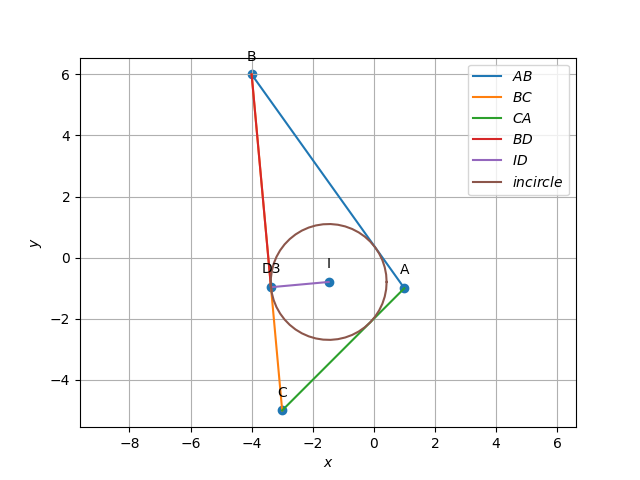
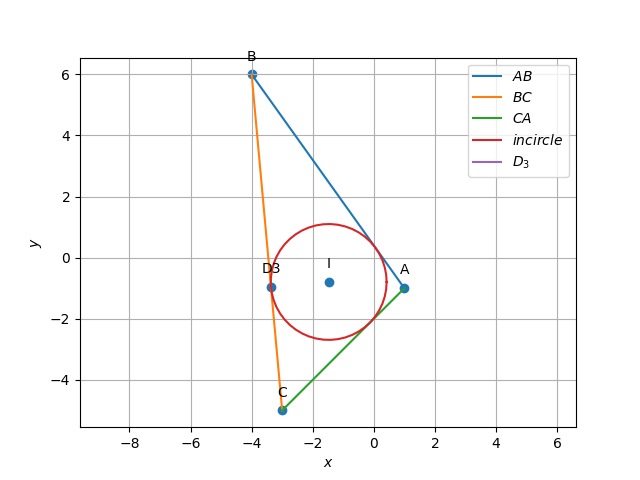
changed the image and multline, made changes to align

diff --git a/assgn1_1.5.8/probassgn1.tex b/assgn1_1.5.8/probassgn1.tex
@@ -257,45 +257,45 @@ and $\vec{I}$ is the incentre of the $\triangle ABC$
 \vec{I} &= \frac{1}{\sqrt{74}+\sqrt{32}+\sqrt{122}}\myvec{{\sqrt{122}-4\sqrt{32}-3\sqrt{74}}\\{-\sqrt{122}+6\sqrt{32}-5\sqrt{74}}}\\
 &=\myvec{-1.47756217 \\-0.79495069}
 \end{align}
-The general position vector on the line BC (in parametric form)  and the equation of incircle are:
+The general position vector on the line $BC$ (in parametric form)  and the equation of incircle are:
 \begin{align}
- &\implies \vec{x} = \vec{B} + k{\vec{m}}\label{eq:8}\\
- &\implies \norm{\ \vec{x} - \vec{I}\ }^2 = r^2 \label{eq:9}
+\vec{x} &= \vec{B} + k{\vec{m}}\label{eq:8}\\
+\norm{\ \vec{x} - \vec{I}\ }^2 &= r^2 \label{eq:9}
 \end{align}
 
 Substituting the value of $ \vec{x} $ from \eqref{eq:8} in \eqref{eq:9}
 \begin{align}
-  &\implies\norm{ \vec{B} + k{\vec{m}}- \vec{I} }^2 = r^2 \\
-  &\implies\sbrak{\vec{B} + k{\vec{m}}- \vec{I}}^{\top} \sbrak{\vec{B} + k{\vec{m}}- \vec{I}} = r^2 
+  \norm{ \vec{B} + k{\vec{m}}- \vec{I} }^2 &= r^2 \\
+  \sbrak{\vec{B} + k{\vec{m}}- \vec{I}}^{\top} \sbrak{\vec{B} + k{\vec{m}}- \vec{I}} &= r^2 
 \end{align}
 On simplifying the above equation:
 \begin{multline}
 k^2\norm{\vec{m}}^2 +2k{\vec{m}^{\top}}\brak{{\vec{B}-\vec{I}}}+\norm{\vec{I}}^2 +\norm{\vec{B}}^2\\-2\brak{\vec{B}^{\top}\vec{I}} - r^2=0
 \end{multline}
-The above is a quadratic equation in k.
+The above is a quadratic equation in $k$.
 The Discriminant of the quadratic equation is:
 \begin{multline}
-D = {\cbrak{2\sbrak{\vec{m}^{\top}\brak{\vec{B}-\vec{I}}}}}^2-4(\ \norm{\vec{m}}^2)(\ \norm{\vec{I}}^2 +\norm{\vec{B}}^2\\\quad-2\brak{\vec{B}^{\top}\vec{I}} - r^2)
+D = {\cbrak{2\sbrak{\vec{m}^{\top}\brak{\vec{B}-\vec{I}}}}}^2-4(\ \norm{\vec{m}}^2)(\ \norm{\vec{I}}^2 +\norm{\vec{B}}^2\\-2\brak{\vec{B}^{\top}\vec{I}} - r^2)\\
+= {\sbrak{2\myvec{1&-11}\myvec{-4+1.47756217\\6+0.79495069}}}^2 \\-4[122][2.8151+52-2(1.140544)\\-3.59820]\\
+=4\sbrak{{\brak{-2.522-74.744}}^2-5970.173}\\
+=4[5970.173121-5970.173121]\\
+=0
 \end{multline}
-\begin{multline}
-D = {\sbrak{2\myvec{1&-11}\myvec{-4+1.47756217\\6+0.79495069}}}^2 \\\qquad-4[122][2.8151+52-2(1.140544)\\\qquad-3.59820]
-\end{multline}
-\begin{align}
-&=4\sbrak{{\brak{-2.522-74.744}}^2-5970.173}\\
-&=4[5970.173121-5970.173121]\\
-&=0
-\end{align}
+%\end{multline}
+%\begin{multline}
+%\begin{align}
+
 We substituted the values of $\vec{B},\vec{I},\vec{m}$
 On solving this Discriminant turns out to be zero.
 Hence, the quadratic equation has only one solution.
 To find the unique solution of the equation (i.e. the unique value of k), Set discriminant value to 0.
 And the solution is \begin{align}k=\frac{-2\vec{m}^{\top}\brak{\vec{B}-\vec{I}}}{2{\ \norm{\vec{m}}^2}}\end{align}
 
-On substituting the values, the value of k is 
+On substituting the values, the value of $k$ is 
 \begin{align}
 k&=-\myvec{1&-11}\myvec{-4-\frac{\sqrt{122}-4\sqrt{32}-3\sqrt{74}}{\sqrt{74}+\sqrt{32}+\sqrt{122}}\\6-\frac{-\sqrt{122}+6\sqrt{32}-5\sqrt{74}}{\sqrt{74}+\sqrt{32}+\sqrt{122}}}\\
 &=\myvec{1&-11}\myvec{\frac{5\sqrt{122}+\sqrt{74}}{\sqrt{74}+\sqrt{32}+\sqrt{122}}\\\frac{-7\sqrt{122}-11\sqrt{74}}{\sqrt{74}+\sqrt{32}+\sqrt{122}}}\\
-k&=\frac{122\sqrt{74}+82\sqrt{122}}{122(\sqrt{74}+\sqrt{122}+\sqrt{32})}\\
+&=\frac{122\sqrt{74}+82\sqrt{122}}{122(\sqrt{74}+\sqrt{122}+\sqrt{32})}\\
 &=0.6333352080102638
 \end{align}
 
@@ -303,7 +303,7 @@ So on substituting this value in \eqref{eq:8}, we get the point $\vec{D_{3}}$
 \begin{align}
 \vec{D_{3}} &=\myvec{-4\\6} + \frac{122\sqrt{74}+82\sqrt{122}}{122\brak{\sqrt{74}+\sqrt{122}+\sqrt{32}}}\myvec{1\\-11}\\
 &=\myvec{-4+\frac{122\sqrt{74}+82\sqrt{122}}{122\brak{\sqrt{74}+\sqrt{122}+\sqrt{32}}}\\6-11\frac{122\sqrt{74}+82\sqrt{122}}{122\brak{\sqrt{74}+\sqrt{122}+\sqrt{32}}}}\\
-\vec{D_{3}} &=\myvec{{\frac{-366\sqrt{74}-406\sqrt{122}-488\sqrt{32}}{122\brak{\sqrt{74}+\sqrt{32}+\sqrt{122}}}}\\{\frac{-610\sqrt{74}+732\sqrt{32}-170\sqrt{122}}{122\brak{\sqrt{74}+\sqrt{32}+\sqrt{122}}}}}\\
+&=\myvec{{\frac{-366\sqrt{74}-406\sqrt{122}-488\sqrt{32}}{122\brak{\sqrt{74}+\sqrt{32}+\sqrt{122}}}}\\{\frac{-610\sqrt{74}+732\sqrt{32}-170\sqrt{122}}{122\brak{\sqrt{74}+\sqrt{32}+\sqrt{122}}}}}\\
 &=\myvec{-3.36666479\\-0.96668729}
 \end{align}
 

diff --git a/assgn1_1.5.8/codes/assgn1.py b/assgn1_1.5.8/codes/assgn1.py
@@ -21,7 +21,7 @@ D=C-B
 a=np.linalg.norm(C-B)
 b=np.linalg.norm(A-C)
 c=np.linalg.norm(A-B)
-I=np.array([(a*A[0]+b*B[0]+c*C[0])/(a+b+c),(a*A[1]+b*B[1]+c*C[1])/(a+b+c)])
+I=np.array([-1.47756217,-0.79495069])
 print("the incentre coordiantes are",I)
 # by using the data from previous question we have inradius value r
 radius=1.8968927705299559
@@ -56,10 +56,6 @@ print("Hence we prove that side BC is tangent To incircle and also found the val
 # image = mpimg.imread('exit-ramp.jpg')
 # plt.imshow(image)
 # plt.show()
-
-
-
-
 #Triangle coordinates
 [A,B,C] = tri_vert(a,b,c)
 A=np.array([1,-1])
@@ -72,29 +68,27 @@ c=np.linalg.norm(A-B)
 x_AB = line_gen(A,B)
 x_BC = line_gen(B,C)
 x_CA = line_gen(C,A)
-x_BD = line_gen(B,D3)
-x_ID = line_gen(I,D3)
-
 
 #Generating the incircle
 [I,r] = icircle(A,B,C)
 x_icirc= circ_gen(I,radius)
-
 #Plotting all lines
 plt.plot(x_AB[0,:],x_AB[1,:],label='$AB$')
 plt.plot(x_BC[0,:],x_BC[1,:],label='$BC$')
 plt.plot(x_CA[0,:],x_CA[1,:],label='$CA$')
-plt.plot(x_BD[0,:],x_BD[1,:],label='$BD$')
-plt.plot(x_ID[0,:],x_ID[1,:],label='$ID$')
-
-
+# plt.plot(x_BD[0,:],x_BD[1,:],label='$BD$')
 #Plotting the incircle
 plt.plot(x_icirc[0,:],x_icirc[1,:],label='$incircle$')
-
+plt.plot(D3[0],D3[1],label='$D_3$')
+A = A.reshape(-1,1)
+B = B.reshape(-1,1)
+C = C.reshape(-1,1)
+I = I.reshape(-1,1)
+D3=D3.reshape(-1,1)
 #Labeling the coordinates
-tri_coords = np.vstack((A,B,C,I,D3)).T
+tri_coords = np.block([[A,B,C,D3,I]])
 plt.scatter(tri_coords[0,:], tri_coords[1,:])
-vert_labels = ['A','B','C','I','D3']
+vert_labels = ['A','B','C','D3','I']
 for i, txt in enumerate(vert_labels):
     plt.annotate(txt, # this is the text
                  (tri_coords[0,i], tri_coords[1,i]), # this is the point to label
